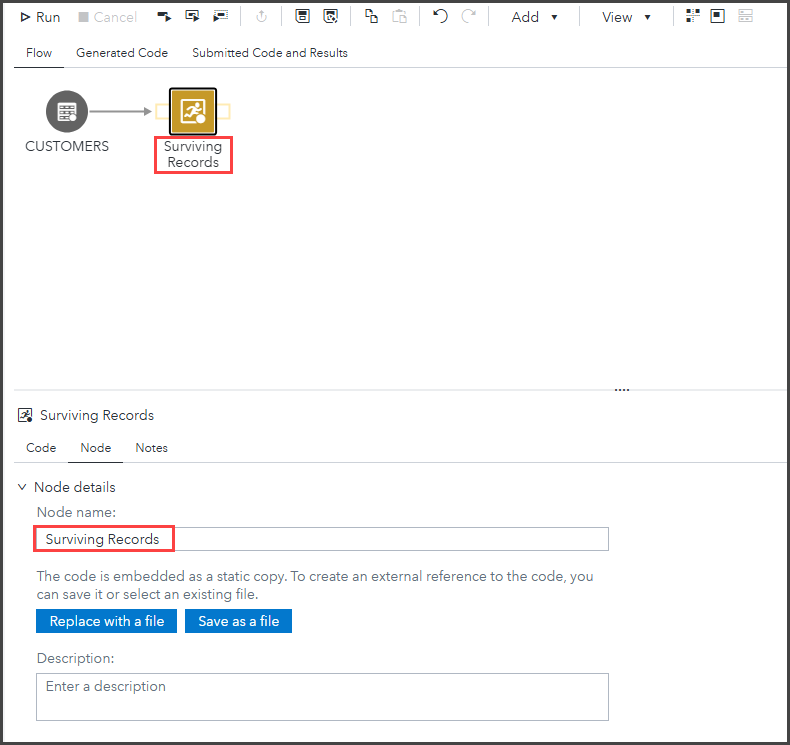
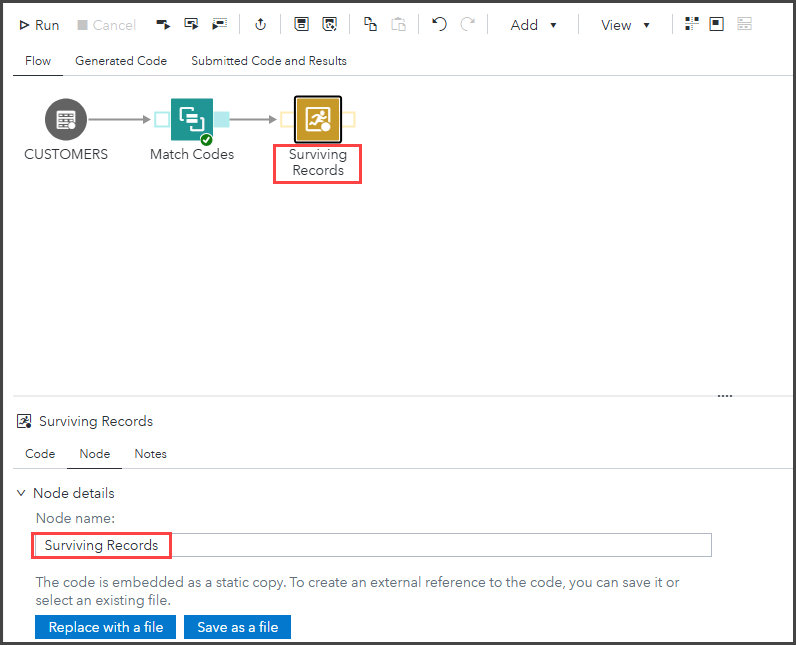
completed instructions

diff --git a/Data_Quality_Steps_SAS_Studio.md b/Data_Quality_Steps_SAS_Studio.md
@@ -4,12 +4,16 @@
 * [Exercise Description](#exercise-description)
 * [Log in to SAS Viya](#log-in-to-sas-viya)
 * [Create a SAS Studio Flow](#create-a-sas-studio-flow)
-    * [Remove Duplicates with Survivorship Snippet](#remove-duplicates-with-survivorship-snippet)
-* [TBD](#tbd)
+   * [Generate Match Codes](#generate-match-codes)
+   * [Remove Duplicates with Survivorship Snippet](#remove-duplicates-with-survivorship-snippet)
+   * [Parse Address Data](#parse-address-data)
+   * [Standardize Data](#standardize-data)
+   * [Create Output Table](#create-output-table)
+* [Exercise Completed](#exercise-completed)
 
 ## Exercise Description
 
-Update your data cleaning process with point-and-click data quality steps in SAS Studio Flows! In this hands-on workshop, you'll learn how to build a flow that deduplicates, standardizes, parses, and combines your data with SAS Data Quality steps and code snippets.
+Update your data cleaning process with point-and-click data quality steps in SAS Studio Flows! In this hands-on workshop, you'll learn how to build a flow that deduplicates, parses, and standardizes your data with SAS Data Quality steps and code snippets.
 
 ## Log in to SAS Viya
 
@@ -36,16 +40,62 @@ Select **No** when prompted about accepting *Admin* privileges.
 
    ![Customers Table](img/CustomersTable.png)
 
-1. Click **Preview Data** to view a subset of rows from the table. If needed, click ![Maximize](img/Maximize.png) to maximize the preview.
+1. Click **Preview Data** to view a subset of rows from the table.
+     > &#9998; If needed, click ![Hide Pane](img/HidePane.png) to hide the Steps pane, or click ![Maximize](img/Maximize.png) to maximize the preview.
 
    ![Customers Preview](img/CustomersPreview.png)
 
-   CUSTOMERS has **60** rows and **5** columns. Note that each customer appears three times with different name formats and varying additional column information. We would like to deduplicate this data by combining unique values into one row per customer.
+   CUSTOMERS has **60** rows and **9** columns. Note that:
+     * Each customer appears three times.
+     * All rows have *Name* and *Address* values.
+     * Most rows have a non-missing *CustomerID* value.
+     * Customer *Name* values differ in each appearance (casing, name order, inclusion of middle initial or use of nickname).
+     * Rows with non-missing *Gender* values also have non-missing *CustomerID*, *Birthday*, *Occupation*, and *Company* values.
+     * Rows with non-missing *Email* values also have non-missing *CustomerID* and *Phone* values.
+
+   We would like to deduplicate this data by combining unique values into one row per customer. First, we'll generate match codes to determine which rows represent the same customers.
+
+### Generate Match Codes
+
+1. Restore your screen view if needed.
+1. Expand the *Data Quality* section of the *Steps* pane. Double-click the **Match Codes** step to add it to the flow canvas.
+1. Drag the *Match Codes* step to the right of *CUSTOMERS*. Use your mouse to draw an arrow connecting *Customers* to the *Match Codes* step.
+1. (Optional) Click ![Arrange Nodes](img/ArrangeNodes.png) on the flow toolbar to arrange the nodes.
+
+   ![Add Match Codes](img/AddMatchCodes.png)
+
+1. In the *Match Codes* tab for the *Match Codes* step, ensure that the default QKB locale (**English (United States)**) is selected.
+1. Configure the *Match Codes* step as follows:
+     * Match column: **Address1**
+     * New match column name: **[Leave blank]**
+     * Definition: **Address**
+     * Sensitivity: **85**
+
+   ![Match Codes Settings](img/MatchCodesSettings.png)
+
+1. Select ![Save Button](img/SaveButton.png) to save the flow.
+1. Navigate to **SAS Content &#10132; Public**. Save the file as **DQ_HOW.flw**.
+1. Select ![Run](img/Run.png) on the flow toolbar to run the flow.
+1. After the flow has run successfully, click the shaded **output port** on *Match Codes*.
+1. Click **Preview Data** to review the output.
+
+   ![Match Codes Output](img/MatchCodesOutput.png)
+
+1. Click ![More Options](img/MoreOptions.png) in the *Preview Data* window and select **Column Selection**.
+1. In the *Column Selection* window, deselect all columns, then individually select **Name**, **Address1**, and **Address1_MC85**, then click **OK**.
+
+   ![Match Codes Columns](img/MCColumns.png)
+
+1. Review the output on the *Preview Data* tab.
+
+   ![Match Codes Limited Output](img/MCLimitedOutput.png)
+
+   Notice that rows with equivalent *Address1* values generated the same match codes regardless of *Address1* format. We can use these match codes to combine customer data into one surviving record.
 
 ### Remove Duplicates with Survivorship Snippet
 
-1. Expand the *Develop* section of the *Steps* pane. Double-click the **SAS Program** step to add it to the flow canvas.
-1. Drag the *SAS Program* step to the right of *CUSTOMERS*. Use your mouse to draw an arrow connecting *Customers* to the *SAS Program* step.
+1. Add the **SAS Program** step from the *Develop* section of the *Steps* pane to the flow canvas and connect it to the *Match Nodes* step.
+1. **Arrange** the nodes and **save** the flow.
 
    ![Add Program Step](img/AddProgramStep.png)
 
@@ -81,14 +131,17 @@ Select **No** when prompted about accepting *Admin* privileges.
 
    * inTable=**&_input1**
    * outTable=**&_output1**
-   * clusterColumn=**CustomerID**
+   * clusterColumn=**Address1_MC85**
    * rowRule1=**(longest, Name)**
-     >The surviving record will be chosen by the longest **Name** value, because this should be the fullest version of the customer's name.
-   * firstColumnRule1=**(not_missing, Birthday)**
-     > The surviving record should store the first non-missing birthday value from the cluster records.
-   * **Delete firstColumnRuleAppliedCols=(Zipcode)**
-   * secondColumnRule1=**(not_missing, Phone)**
-     > The surviving record should store the first non-missing Phone value from the cluster records.
+     > &#9998; The surviving record will be chosen by the longest **Name** value, because this should be the fullest version of the customer's name.
+   * firstColumnRule1=**(not_missing, Gender)**
+     > &#9998; The surviving record should store the first non-missing *Gender* value from the cluster records.
+   * firstColumnRuleAppliedCols=**(Birthday, Occupation, Company)**
+     > &#9998; The surviving record should store the *Birthday*, *Occupation*, and *Company* values from the row satisfying *firstColumnRule1*.
+   * secondColumnRule1=**(not_missing, Email)**
+     > &#9998; The surviving record should store the first non-missing *Email* value from the cluster records.
+   * **Add firstColumnRuleAppliedCols=(CustomerID, Phone)**
+     > &#9998; The surviving record should store the *CustomerID* and *Phone* values from the row satisfying *secondColumnRule1*.
    * **Add a comma after** keepDuplicates=**0**
    * **Add generateDistinctSurvivor=1** after keepDuplicates=**0**
 
@@ -98,13 +151,15 @@ Select **No** when prompted about accepting *Admin* privileges.
 
    ```bash
    %dqsurvr (inTable=&_input1,
-              outTable=&_output1,
-              clusterColumn=CustomerID,
-              rowRule1=(longest, Name),
-              firstColumnRule1=(not_missing, Birthday),
-              secondColumnRule1=(not_missing, Phone),
-              keepDuplicates=0,
-              generateDistinctSurvivor=1);
+          outTable=&_output1,
+          clusterColumn=Address1_MC85,
+          rowRule1=(longest,Name),
+          firstColumnRule1=(not_missing,Gender),
+          firstColumnRuleAppliedCols=(Birthday,Occupation,Company),
+          secondColumnRule1=(not_missing,Email),
+          secondColumnRuleAppliedCols=(CustomerID,Phone),
+          keepDuplicates=0,
+          generateDistinctSurvivor=1);
     ```
 
    </details></p>
@@ -115,14 +170,150 @@ Select **No** when prompted about accepting *Admin* privileges.
 
    ![Rename Program Node](img/RenameProgramNode.png)
 
-1. Select ![Save Button](img/SaveButton.png) to save the flow.
-1. Navigate to **SAS Content &#10132; Public**. Save the file as **DQ_HOW.flw**.
-1. Select ![Run](img/Run.png) on the flow toolbar to run the flow.
-1. After the low has run successfully, click the shaded **output port** on *Surviving Records*.
-1. Click **Preview Data** to review the output.
+1. **Save** the changes to the flow.
+1. **Right-click** *Surviving Records* and select **Run node**. Select the **output port** of *Surviving Records* and **preview** the results.
 
    ![Survivorship Output](img/SurvivorshipOutput.png)
 
-   The output table has **20** rows and **5** columns. Duplicate records were accurately condensed to store all customer data in one record.
+   The output table has **20** rows and **5** columns. Duplicate records were accurately condensed to store all customer data in one record. Next, we'll parse *Address1* and store individual tokens like Street, City, and State in separate columns.
 
-## TBD
+### Parse Address Data
+
+1. Add the **Parse Data** step from the *Data Quality* section of the *Steps* pane to the flow canvas and connect it to the *SAS Program (Surviving Records)* step.
+1. **Arrange** the nodes and **save** the flow.
+
+   ![Add Parse Data](img/AddParseData.png)
+
+1. In the *QKB Locale* tab for the *Parse Data* step, ensure that the default QKB locale (**English (United States)**) is selected.
+
+   ![Parse Data Locale](img/ParseDataLocale.png)
+
+1. On the *Parsing* tab, check the box to **Enable parsing**.
+
+   ![Enable Parsing](img/EnableParsing.png)
+
+1. Configure the *Parse Data* step as follows:
+     * Select column: **Address1**
+     * Definition: **Address (Full)**
+     * Select tokens: **City**, **Country**, **Postal Code**, **State/Province**, **Street**
+
+   ![Parse Data Settings](img/ParseDataSettings.png)
+
+1. **Save** the changes to the flow.
+1. **Right-click** *Parse Data* and select **Run node**. Select the **output port** of *Parse Data* and **preview** the results.
+     > &#9998; Use the *Column Selection* option or scroll all the way to the right in the *Preview Data* window to see new columns.
+
+   ![Parse Data Output](img/ParseDataOutput.png)
+
+   The output table has **5** new columns storing the **City**, **Country**, **Postal Code**, **State/Province**, and **Street** from each *Address1* value. Note that:
+     * **Address1_CITY** varies in casing. Some city names are written in uppercase, while others are in proper case.
+     * **Address1_STATE_PROVINCE** varies in format. Some state names are written in full, while others are written in abbreviations.
+     * **Address1_STREET** varies in casing and format. Specifically, some street addresses use full road names, while others use abbreviations.
+     * **Address1_COUNTRY** uses a consistent country abbreviation standard, but we'd like to see the full country name instead.
+   We'll correct these issues and others with the Clean Data step.
+
+### Standardize Data
+
+1. Add the **Clean Data** step from the *Data Quality* section of the *Steps* pane to the flow canvas and connect it to the *Parse Data* step.
+1. **Arrange** the nodes and **save** the flow.
+
+   ![Add Clean Data](img/AddCleanData.png)
+
+1. In the *QKB Locale* tab for the *Clean Data* step, ensure that the default QKB locale (**English (United States)**) is selected.
+1. On the *Standardization* tab, check the box to **Enable standardization**.
+1. Configure the *Clean Data* step as follows:
+     * Select column: **Name**
+     * Definition: **Name**
+     * Column options: **Create new column**
+     * New column: **[Leave blank]**
+
+   ![Clean Data Options](img/CleanDataOptions.png)
+
+1. Under the *Additional Standardize* heading, repeat this process to standardize columns as specified below. **For all *Additional Standardize* columns, select *Create new column* and leave the new column name *blank*.**
+
+     | Select Column | Definition |
+     |  :---  |  :---  |
+     | Address1_CITY | City |
+     | Address1_STATE_PROVINCE | State/Province (Full Name) |
+     | Address1_STREET | Address |
+     | Address1_COUNTRY | Country |
+
+1. **Save** the changes to the flow.
+1. **Right-click** *Clean Data* and select **Run node**. Select the **output port** of *Clean Data* and **preview** the results.
+     > &#9998; If the *Clean Data* step fails with *ERROR: Key not found* and *ERROR: Error in the FILENAME statement*, simply run the step again. This is a known bug which is resolved by executing again.
+      ![Clean Data Error](img/CleanDataError.png)
+
+1. (Optional) use the *Column selection* option to limit the column view in the *Preview Data* window.
+
+   ![Clean Data Name Output](img/CleanDataNameOutput.png)
+
+   Standardized names are proper cased and written in **First MI Last** format.
+
+   ![Clean Data City State Country Output](img/CleanDataCityStateCountryOutput.png)
+
+   Standardized city, state, and country names are proper cased and written in full instead of abbreviated.
+
+   ![Clean Data Street Output](img/CleanDataStreetOutput.png)
+
+   Standardized street names are proper cased and road type names (Street, Drive, Avenue, etc) are shortened.
+
+   We'll finish by creating an output table to store the final results.
+
+### Create Output Table
+
+1. Add the **Query** step (from the *Transform Data* section of the *Steps* pane) to the flow canvas and connect it to the *Clean Data* step.
+1. Right-click the *Query* step output port and select **Add a table**.
+1. **Arrange** the nodes and **save** the flow.
+
+   ![Add Query and Table](img/AddQueryAndTable.png)
+
+1. Select the **Table**  node on the flow canvas. In the **Table Properties** section, type the following table attributes:
+
+   * Library: **DQWS**
+   * Table name: **CUSTOMERS_CLEAN**
+   * Select **Create a physical table** (default selection)
+
+   ![Create Output Table](img/CreateOutputTable.png)
+
+1. Select the **Query** node on the flow canvas. In the *Options* tab, expand **t1 (Clean Data)** to view all source columns.
+
+   ![Query Columns](img/QueryColumns.png)
+
+1. Select the following columns and update their attributes on the *Select* tab:
+
+     | Source | Name | Label |
+     |  :---  |  :---  |  :---  |
+     | CustomerID | CustomerID | **Customer ID** |
+     | Name_STND | **Name** | |
+     | Address1_STREET_STND | **Street** | |
+     | Address1_CITY_STND | **City** | |
+     | Address1_STATE_PROVINCE_STND | **State** | |
+     | Address1_POSTALCODE | **PostalCode** | **Postal Code**|
+     | Address1_COUNTRY_STND | **Country** | |
+     | Gender | Gender | |
+     | Birthday | Birthday | |
+     | Occupation | Occupation | |
+     | Company | Company | |
+     | Email | Email | |
+     | Phone | Phone | |
+
+     > &#9998; Updates to column attributes are **bolded**.
+
+   ![Query Select](img/QuerySelect.png)
+
+1. Click the *Sort* tab.
+1. Double-click *CustomerID* to add it to the *Sort* tab. Keep the default sort order selection (**Ascending**).
+
+1. **Save** the changes to the flow.
+1. **Right-click** *Query* and select **Run node**. Select the output table **CUSTOMERS_CLEAN** and **preview** the results.
+     > &#9998; If needed, click ![Hide Pane](img/HidePane.png) to hide the Steps pane, or click ![Maximize](img/Maximize.png) to maximize the preview.
+
+   ![Final Table](img/FinalTable.png)
+
+1. **Close** the *Flow* file tab after reviewing results.
+
+## Exercise Completed
+
+**You have completed the exercise on building a flow with SAS Data Quality!**
+
+**THANK YOU FOR ATTENDING THIS WORKSHOP!**
